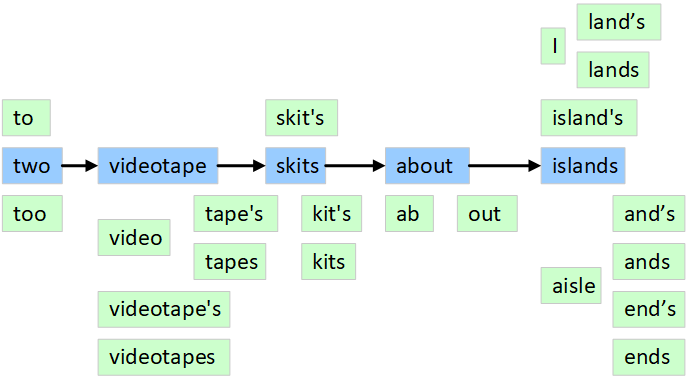
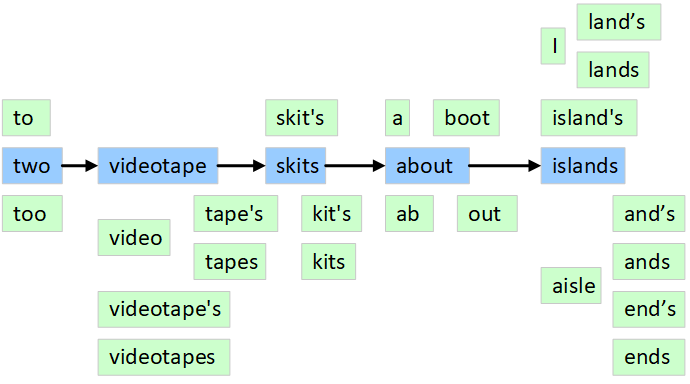
Documentation updates

Changed region(s): [[0.5478, 0.25, 0.7304, 0.375]]

diff --git a/documentation/phonetic.md b/documentation/phonetic.md
@@ -19,35 +19,35 @@ In domains with low error rates, this sort of compounding might be tolerable, bu
 The challenge with the pipeline approach is that each stage must _commit to a single interpretation of its input_, and it must do this in a _highly ambiguous environment_ without access to _context from subsequent stages_.
 
 One solution is to avoid making decisions until the end of the pipeline.
-Instead of settling on _one interpretration_, a stage can forward the set of _all possible interpretations_.
+Instead of settling on _one interpretration_, each stage can forward _the set of all possible interpretations_.
 
-Consider, for example, the speech-to-text module. Suppose its input sounds like
+Consider, for example, the speech-to-text module. Suppose its input sounds like the phrase,
 ~~~
 "too videotape's kits about aisle ends"
 ~~~
-In the traditional pipeline, the stage could forward this interpretation along, when the following might be more correct:
+In the traditional pipeline, the speech stage could forward this interpretation along, when the following might be more correct:
 ~~~
 "two videotape skits about islands"
 ~~~
 
-A stage can avoid committing to a single interpretation by generating a graph the represents all possible interpretations. The following diagram shows all the words in the lexicon that sound like portions of the input phrase. Paths from left to right represent possible interpretations. In this case, the blue path represents one of the better interpretations.
+A stage can avoid committing to a single interpretation by generating a graph the represents all possible interpretations. The following diagram shows all the words in a hypothetical lexicon that sound like portions of the input phrase. Paths from left to right represent possible interpretations. In this case, the blue path represents one of the better interpretations.
 
 <img src="graph1.png"/>
 
 Other paths through the graph represent less likely interpretations, such as
 ~~~
 to videotape's kits about aisle ends
-two videotape skit's ab out I land's
+two videotape skit's a boot I land's
 too video tapes kit's aobut aisle and's
 ~~~
 
-If the speech-to-text stage forwarded only the blue path, subsequent stages would not have access to these less likely, but possibly valid, interpretations.
+If the speech-to-text stage forwarded only the blue path, subsequent stages would not have access to these less likely, but potentially valid, interpretations.
 
 In generating this graph of words, the speech-to-text module still commits to decisions the sounds of words in the lexicon. It could avoid these decisions, altogether, by forwarding a graph of phonemes, rather than words. Here's a graph of phonemes that sound like `"two videotape skits about islands"`:
 
 <img src="phonemes.png"/>
 
-This graph-based approach requires a completely different type of Natural Language Processor because it must accept a graph as input, instead of a string of characters. The graph might be composed of words from the lexicon, or it might be made up of phonemes or other sound-based encodings.
+This graph-based approach _requires a completely different type of Natural Language Processor_ because it must accept a graph as input, instead of a string of characters. The graph might be composed of words from the lexicon, or it might be made up of phonemes or other sound-based encodings.
 
 In a similar manner, the natural lauguage processor can generate a graph of compount entities. Suppose the input text was `"burger with cheese fries and ketchup and a coke"`. Does this refer to a `cheeseburger` with `fries` or a `plain hamburger` with `cheesy fries`? We can let the business logic sort this out by forwarding a graph of potential compound entities:
 
@@ -58,6 +58,9 @@ In this graph, the term `cheese` might be part of the `hamburger` compound entit
 Given this graph, the business logic may be able to prune some paths. As an example, the ketchup ingredient, `squirt of ketchup` might only be allowed on the `hamburger`, while the `ketchup packet` may be the only form allowed with `french fries`. Likewise, `slice of cheese` may not be allowed on the hamburger, meaning that the term, `cheese` must be part of `cheesy fries`.
 
 Again, the graph-based approach requires a completely different type of Business Logic that can accept a graph as input and reason about the legality and value of each of the paths.
+
+## Retrofitting Legacy Systems
+
 
 ## Sources of Ambiguity in Speech-to-Text Systems
 Let's look at a few of the sources of ambiguity in speech-to-text systems. Probably the most common source of ambiguity is from [homonyms](https://en.wikipedia.org/wiki/Homonym). These are words that sound the same, but have different meanings. For example,
